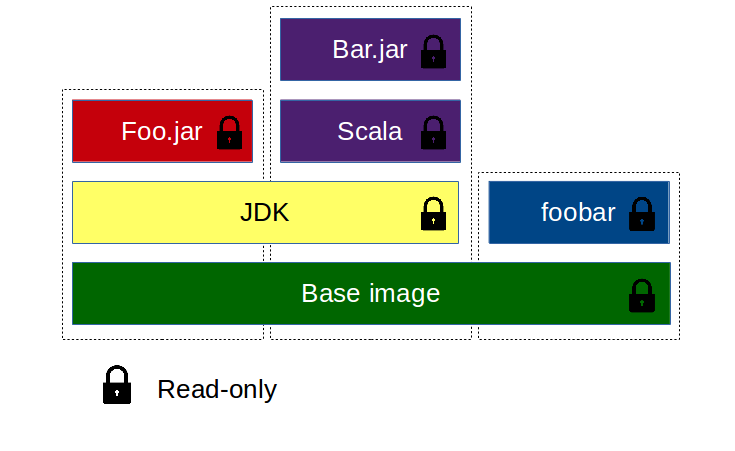
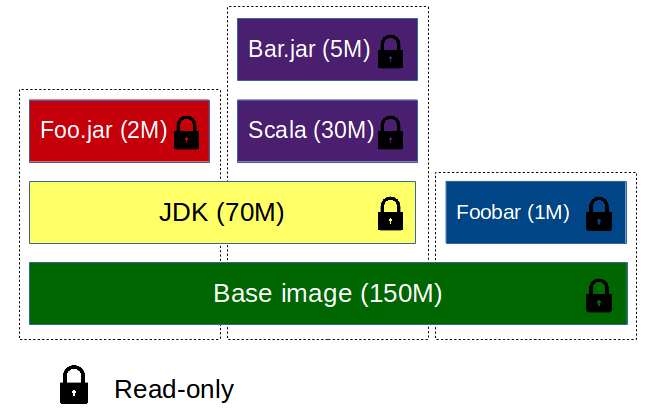
Update slides lifecycle

diff --git a/Slides/04_lifecycle.md b/Slides/04_lifecycle.md
@@ -22,9 +22,11 @@ Notes :
 
 ## Images (1/2)
 
-Template multi-layer pour les conténeurs, héritage
+Template multi-layer pour les conténeurs, héritage entre images
 
 ![](ressources/images/decouverte-images-layer.png)
+
+Place sur le disque : 258M
 
 Notes :
 - Filesystème en oignon => gain de place
@@ -35,15 +37,15 @@ Notes :
 
 Commandes usuelles
 
-- images : liste les images disponible en local
+- ``images`` : liste les images disponible en local
 ```bash
 REPOSITORY  TAG     IMAGE ID      CREATED     VIRTUAL SIZE
 debian      jessie  b427819b829a  4 days ago  715.6 MB
 # […]
 ```
-- search : effectue une recherge sur le *hub* d'images
-- rmi : supprime une image disponible en local
-- build : construit une image à partir d'un ``Dockerfile``
+- ``search`` : effectue une recherge sur le *hub* d'images
+- ``rmi`` : supprime une image disponible en local
+- ``build`` : construit une image à partir d'un ``Dockerfile``
 
 Notes :
 - rmi : supprime également les tags, vérifie cohérence avec les
@@ -59,9 +61,9 @@ FROM debian:jessie                   # Basé sur Debian
 MAINTAINER John Doe <john@doe.com>
 
 RUN apt-get -y update                # Une commande
+RUN ["apt-get", "-y", "update"]      # La même ou presque
 RUN apt-get -y install git \ 
     openjdk-7-jre                    # Ou sur plusieurs lignes
-RUN ["echo", "ou comme ça"]
 
 ADD http://bit.ly/1HyjEeA /whale.gif # Ajout depuis un URI
 COPY target/foobar.jar /             # Copie d'un fichier
@@ -75,9 +77,10 @@ CMD ["java", "-jar", "/foobar.jar"]
 ```
 
 Notes :
-- Explain each line of a Dockerfile example
 - Chaque étape de la construction d'une image devient un layer =>
   cache de build (hash sur la ligne)
+- ADD marche avec URI (http, ..) + fichiers et dossier (avec regexp, * ..)
+- ENV pendant le build & lors du run du conteneur
 - .dockerignore : permet d'ignorer des fichiers entre le build et
   l'image final, ce qui permet de ne pas allourdir l'image (e.g. un
   répertoire .git, .svn, ..)
@@ -144,12 +147,12 @@ Notes :
 
 Quelques commandes en plus
 
-- create : Créer un conteneur à base d'une image => run == create + start
-- diff : Montre les différences au niveau filesystem entre le
+- ``create`` : Créer un conteneur à base d'une image => run == create + start
+- ``diff`` : Montre les différences au niveau filesystem entre le
   conteneur et son image associée
-- exec : Lancer une commande à l'intérieur d'un conteneur
-- rm : Supprime un conteneur (et donc ses données avec)
-- ps : Liste les conteneurs actif et inactif
+- ``exec`` : Lancer une commande à l'intérieur d'un conteneur
+- ``rm`` : Supprime un conteneur (et donc ses données avec)
+- ``ps`` : Liste les conteneurs actif et inactif
 
 
 
@@ -158,8 +161,11 @@ Quelques commandes en plus
 
 Découpler le cycle de vie de données du cycle de vie du conteneur
 
-schema (fs on host, mounted in container)
-schema (data container)
+* Dossier qui *bypass* les layers
+* Initialiser à la création du conteneur
+* Partage entre conteneur possible
+* Données directement écrite directement, non inclus dans l'image
+* Persistent tant qu'ils sont utilisés
 
 Notes :
 - Si volume pas binder (via commandline), docker créer un dossiers

diff --git a/Slides/01_what_is_docker.md b/Slides/01_what_is_docker.md
@@ -185,6 +185,8 @@ Qu'est Docker apporte en plus de LXC :
 - Docker Hub
 - Ecosystème
 
+
+
 ##  Détails techniques : Union mount
 
 ![](ressources/images/docker-filesystems-multilayer-small.png)

diff --git a/Slides/00_decouverte.md b/Slides/00_decouverte.md
@@ -17,6 +17,7 @@ github: *l0rd*<br>
 Vincent Demeester<br>
 *vincent.demeester@zenika.com*<br>
 github: *vdemeester*<br>
+*@vdemeest*
 <br>
 
 
